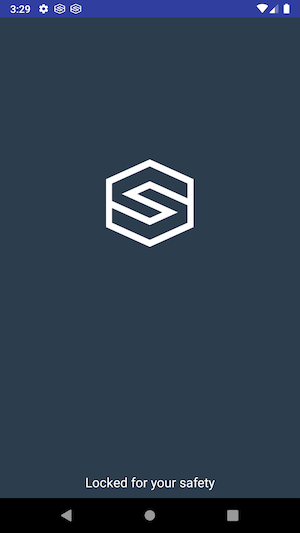
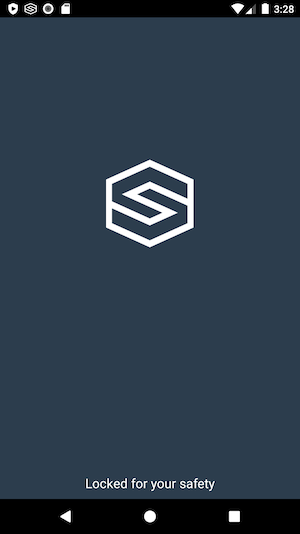
updated and added new screenshots to lock screen guides (#238)
* updated and added new screenshots to guides

* rearranged screenshots

* updated android screenshots and added new ones for OEM logo, dimiss, and custom

* added additional lock screen files

* added custom image to file

* updated oem logo screenshots

diff --git a/docs/Getting Started/Adding the Lock Screen/index.md b/docs/Getting Started/Adding the Lock Screen/index.md
@@ -53,6 +53,9 @@ It is possible to customize the background color and app icon in the default pro
 @![iOS]
 ![Custom Lock Screen](assets/CustomLockScreen.png)
 !@
+@![android]
+![Custom Lock Screen](assets/CustomLockScreen_Android.png)
+!@
 
 ### Custom Background Color
 @![iOS]
@@ -97,7 +100,16 @@ lockScreenConfig.setAppIcon(appIconInt); // For example, R.drawable.lockscreen i
 !@
 
 ### Showing the OEM Logo
-The default lock screen handles retrieving and setting the OEM logo from head units that support this feature. This feature can be disabled on the default lock screen by setting `showDeviceLogo` to false. 
+The default lock screen handles retrieving and setting the OEM logo from head units that support this feature.
+
+@![iOS]
+![Custom Lock Screen](assets/OEMLogoLockScreen.png)
+!@
+@![android]
+![Custom Lock Screen](assets/OEMLogoLockScreen_Android.png)
+!@
+
+This feature can be disabled on the default lock screen by setting `showDeviceLogo` to false.
 
 @![iOS]
 ##### Objective-C
@@ -203,7 +215,16 @@ lockScreenConfig.setDisplayMode(LockScreenConfig.DISPLAY_MODE_ALWAYS);
 !@
 
 ### Enabling User Lockscreen Dismissal (Passenger Mode)
-Starting in RPC v6.0+ users may now have the ability to dismiss the lock screen by swiping the lock screen down. Not all OEMs support this new feature. A dismissible lock screen is enabled by default if the head unit enables the feature, but you can disable it manually as well. To disable this feature, set @![iOS]`SDLLockScreenConfiguration`s!@ @![android]`LockScreenConfig`s!@  `enableDismissGesture` to false.
+Starting in RPC v6.0+ users may now have the ability to dismiss the lock screen by swiping the lock screen down. Not all OEMs support this new feature. A dismissible lock screen is enabled by default if the head unit enables the feature, but you can disable it manually as well.
+
+@![iOS]
+![Custom Lock Screen](assets/DismissLockScreen.png)
+!@
+@![android]
+![Custom Lock Screen](assets/DismissLockScreen_Android.png)
+!@
+
+To disable this feature, set @![iOS]`SDLLockScreenConfiguration`s!@ @![android]`LockScreenConfig`s!@  `enableDismissGesture` to false.
 
 @![iOS]
 ##### Objective-C
